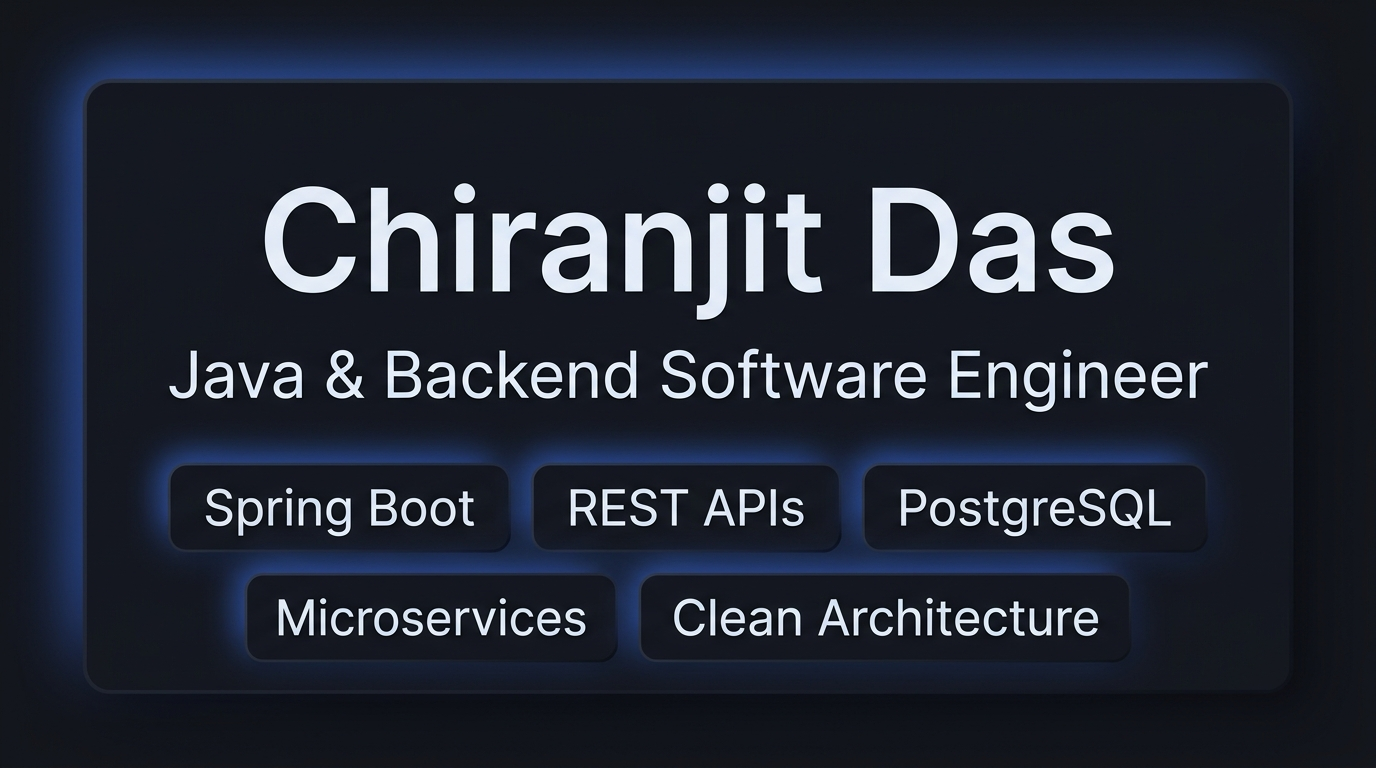
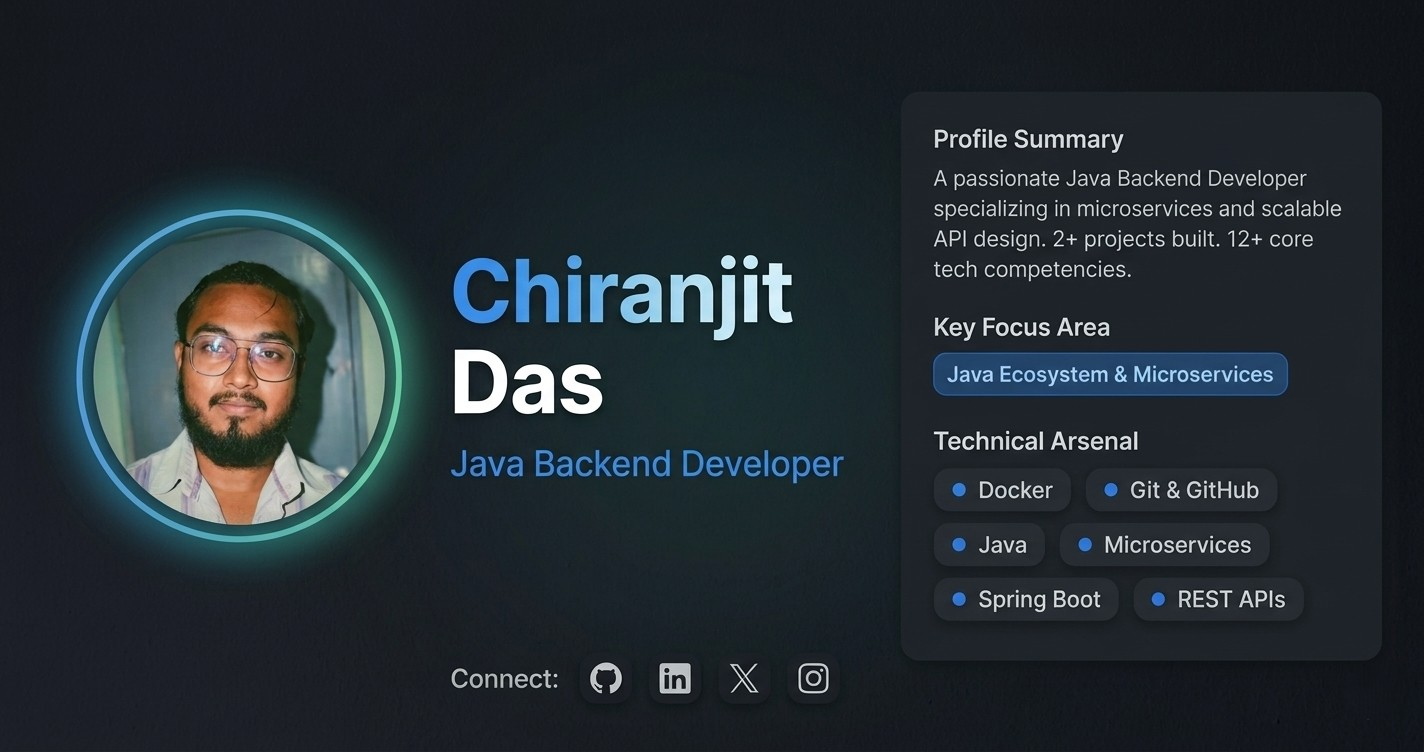
feat: initialize frontend portfolio with Next.js, neumorphic styling, and core pages

diff --git a/Frontend/src/app/layout.tsx b/Frontend/src/app/layout.tsx
@@ -1,6 +1,8 @@
 import '@/app/globals.css'
 import SiteChrome from '@/components/SiteChrome'
 import { serverApi } from '@/lib/serverApi'
+import { getImageUrl } from '@/utils/imageUtils'
+import { preload } from 'react-dom'
 import type { Metadata, Viewport } from 'next'
 import { Inter, JetBrains_Mono } from 'next/font/google'
 
@@ -31,15 +33,15 @@ export const metadata: Metadata = {
         locale: 'en_IN',
         url: 'https://www.chirru.in/',
         siteName: 'Chiranjit Das Portfolio',
-        title: 'Chiranjit Das',
-        description: 'Official portfolio and software engineering projects of Chiranjit Das.',
-        images: [{ url: '/og-image.jpg', width: 1200, height: 630, alt: 'Chiranjit Das portfolio' }]
+        title: 'Chiranjit Das | Java & Backend Developer',
+        description: 'Explore software architecture, featured projects, and backend engineering competencies by Chiranjit Das.',
+        images: [{ url: 'https://www.chirru.in/og-image.jpg', width: 1200, height: 630, type: 'image/jpeg', alt: 'Chiranjit Das portfolio' }]
     },
     twitter: {
         card: 'summary_large_image',
-        title: 'Chiranjit Das',
-        description: 'Official portfolio and software engineering projects of Chiranjit Das.',
-        images: ['/og-image.jpg']
+        title: 'Chiranjit Das | Java & Backend Developer',
+        description: 'Explore software architecture, featured projects, and backend engineering competencies by Chiranjit Das.',
+        images: ['https://www.chirru.in/og-image.jpg']
     },
     robots: {
         index: true,
@@ -64,6 +66,10 @@ const themeInitScript = `(function(){try{var t=localStorage.getItem('chirru_them
 
 export default async function RootLayout({ children }: { children: React.ReactNode }) {
     const [profile, socialLinks] = await Promise.all([serverApi.profile(), serverApi.socialLinks()]);
+    const avatarUrl = getImageUrl(profile.imageUrl);
+    if (avatarUrl) {
+        preload(avatarUrl, { as: 'image', fetchPriority: 'high' });
+    }
     return (
         <html lang="en" className={`${inter.variable} ${jetbrainsMono.variable}`} suppressHydrationWarning>
             <head>

diff --git a/Frontend/src/app/page.tsx b/Frontend/src/app/page.tsx
@@ -1,5 +1,32 @@
 import type { Metadata } from 'next'
 import Home from '@/views/Home'
 import { getPortfolioData } from '@/lib/serverApi'
-export const metadata: Metadata = {title:'Chiranjit Das',description:'Official portfolio of Chiranjit Das, Java & Backend Software Engineer specializing in Spring Boot, REST APIs, Microservices, and scalable web applications.',alternates:{canonical:'/'},openGraph:{type:'website',url:'/',title:'Chiranjit Das',description:'Official portfolio and software engineering projects of Chiranjit Das.',images:['/og-image.jpg']}}
-export default async function Page(){return <Home {...await getPortfolioData()} projectsLoading={false}/>}
+export const revalidate = 1800
+
+export const metadata: Metadata = {
+  title: 'Chiranjit Das | Java & Backend Developer',
+  description:
+    'Official portfolio of Chiranjit Das, Java & Backend Software Engineer specializing in Spring Boot, REST APIs, Microservices, and scalable web applications.',
+  alternates: { canonical: '/' },
+  openGraph: {
+    type: 'website',
+    url: 'https://www.chirru.in/',
+    siteName: 'Chiranjit Das Portfolio',
+    title: 'Chiranjit Das | Java & Backend Developer',
+    description:
+      'Explore software architecture, featured projects, and backend engineering competencies by Chiranjit Das.',
+    images: [
+      {
+        url: 'https://www.chirru.in/og-image.jpg',
+        width: 1200,
+        height: 630,
+        type: 'image/jpeg',
+        alt: 'Chiranjit Das | Java & Backend Developer',
+      },
+    ],
+  },
+}
+
+export default async function Page() {
+  return <Home {...(await getPortfolioData())} projectsLoading={false} />
+}

diff --git a/Frontend/src/components/Hero.tsx b/Frontend/src/components/Hero.tsx
@@ -46,12 +46,7 @@ export default function Hero({ profile = {}, socialLinks = [], projectCount = 0,
   return (
     <section id="home" className="hero-section section">
       <div className="container hero-container-landscape">
-        <motion.div
-          className="hero-card hero-card-landscape"
-          initial={{ opacity: 0, y: 24, scale: 0.98 }}
-          animate={{ opacity: 1, y: 0, scale: 1 }}
-          transition={{ duration: 0.5, ease: 'easeOut' }}
-        >
+        <div className="hero-card hero-card-landscape">
           {/* Left Column: Identity, Bio & Actions */}
           <div className="hero-landscape-left">
             {/* Status Indicator */}
@@ -74,6 +69,7 @@ export default function Hero({ profile = {}, socialLinks = [], projectCount = 0,
                     height={160}
                     sizes="160px"
                     priority
+                    fetchPriority="high"
                     onError={() => setImgError(true)}
                   />
                 ) : (
@@ -194,7 +190,7 @@ export default function Hero({ profile = {}, socialLinks = [], projectCount = 0,
               </div>
             </div>
           </div>
-        </motion.div>
+        </div>
       </div>
     </section>
   )

diff --git a/Frontend/src/lib/serverApi.ts b/Frontend/src/lib/serverApi.ts
@@ -18,21 +18,23 @@ async function get<T>(path: string, fallback: T): Promise<T> {
 
   try {
     const response = await fetch(url, {
-      cache: 'no-store',
+      next: { revalidate: 1800 },
       headers: { Accept: 'application/json' },
       signal: AbortSignal.timeout(8000),
     })
 
     if (!response.ok) {
-      console.error(
-        `[serverApi] ${response.status} ${response.statusText}: ${url}`
-      )
+      if (process.env.NODE_ENV !== 'production') {
+        console.warn(`[serverApi] ${response.status} ${response.statusText}: ${url}`)
+      }
       return fallback
     }
 
     return (await response.json()) as T
   } catch (error) {
-    console.error(`[serverApi] Failed to fetch ${url}`, error)
+    if (process.env.NODE_ENV !== 'production') {
+      console.warn(`[serverApi] Failed to fetch ${url}`, error)
+    }
     return fallback
   }
 }

diff --git a/Frontend/src/app/contact/page.tsx b/Frontend/src/app/contact/page.tsx
@@ -1,5 +1,6 @@
 import type { Metadata } from 'next'
 import ContactPage from '@/views/ContactPage'
 import { serverApi } from '@/lib/serverApi'
+export const revalidate = 1800
 export const metadata: Metadata = { title: 'Contact Chiranjit Das', description: 'Connect with Chiranjit Das for software engineering opportunities, Java & Spring Boot backend projects, or technical inquiries.', alternates: { canonical: '/contact' } }
 export default async function Page() { const [profile, socialLinks] = await Promise.all([serverApi.profile(), serverApi.socialLinks()]); return <ContactPage profile={profile} socialLinks={socialLinks} /> }

diff --git a/Frontend/src/app/experience/page.tsx b/Frontend/src/app/experience/page.tsx
@@ -1,5 +1,6 @@
 import type { Metadata } from 'next'
 import ExperiencePage from '@/views/ExperiencePage'
 import { serverApi } from '@/lib/serverApi'
+export const revalidate = 1800
 export const metadata: Metadata={title:'Experience | Chiranjit Das',description:'Explore the professional work experience, developer internships, and educational background of Chiranjit Das.',alternates:{canonical:'/experience'}}
 export default async function Page(){const [experience,education]=await Promise.all([serverApi.experience(),serverApi.education()]);return <ExperiencePage experience={experience} education={education}/>}

diff --git a/Frontend/src/app/projects/page.tsx b/Frontend/src/app/projects/page.tsx
@@ -1,5 +1,6 @@
 import type { Metadata } from 'next'
 import ProjectsPage from '@/views/ProjectsPage'
 import { serverApi } from '@/lib/serverApi'
+export const revalidate = 1800
 export const metadata: Metadata={title:'Projects | Chiranjit Das',description:'Explore software engineering projects, backend architectures, and full-stack web applications developed by Chiranjit Das.',alternates:{canonical:'/projects'}}
 export default async function Page(){return <ProjectsPage projects={await serverApi.projects()}/>}

diff --git a/Frontend/src/app/about/page.tsx b/Frontend/src/app/about/page.tsx
@@ -2,6 +2,8 @@ import type { Metadata } from 'next'
 import AboutPage from '@/views/AboutPage'
 import { serverApi } from '@/lib/serverApi'
 
+export const revalidate = 1800
+
 export const metadata: Metadata = {
     title: 'About Chiranjit Das | Java Developer',
     description: 'Learn about Chiranjit Das, a Java & Backend Software Engineer passionate about clean code, Spring Boot, REST APIs, and scalable distributed systems.',

diff --git a/Frontend/src/app/robots.ts b/Frontend/src/app/robots.ts
@@ -1,2 +1,12 @@
 import type { MetadataRoute } from 'next'
-export default function robots():MetadataRoute.Robots{return {rules:{userAgent:'*',allow:'/'},sitemap:'https://www.chirru.in/sitemap.xml'}}
+
+export default function robots(): MetadataRoute.Robots {
+  return {
+    rules: {
+      userAgent: '*',
+      allow: '/',
+      disallow: ['/api/'],
+    },
+    sitemap: 'https://www.chirru.in/sitemap.xml',
+  }
+}

diff --git a/Frontend/src/app/globals.css b/Frontend/src/app/globals.css
@@ -17,7 +17,7 @@
   --text-primary: #191b22;
   --text-secondary: #595f65;
   --text-variant: #424653;
-  --text-muted: #737785;
+  --text-muted: #555a68;
   --text-inverse: #f0f0fa;
 
   --primary: #4785FF;
@@ -73,7 +73,7 @@
   --text-primary: #f0f0fa;
   --text-secondary: #a1a6b4;
   --text-variant: #cbd0df;
-  --text-muted: #737785;
+  --text-muted: #9ca2b2;
   --text-inverse: #191b22;
 
   --primary: #4785FF;

diff --git a/Frontend/src/app/projects/[slug]/page.tsx b/Frontend/src/app/projects/[slug]/page.tsx
@@ -3,6 +3,8 @@ import ProjectDetailsPage from '@/views/ProjectDetailsPage'
 import { serverApi } from '@/lib/serverApi'
 import { findProjectBySlug, toProjectSlug } from '@/utils/slugUtils'
 
+export const revalidate = 1800
+
 interface PageProps {
     params: Promise<{ slug: string }>
 }

diff --git a/README.md b/README.md
@@ -6,10 +6,7 @@ A comprehensive, production-ready personal portfolio platform consisting of a pu
 
 - **Public Portfolio**: Dynamic display of projects, skills, education, and work experience.
 - **Admin Dashboard**: Secure, authenticated interface to manage portfolio content via CRUD operations.
-- **Authentication & Authorization**: JWT-based secure login utilizing Spring Security.
-- **Media Management**: Seamless integration with Cloudinary for uploading and handling images.
 - **Responsive Design**: Mobile-first UI using Tailwind CSS and Framer Motion for smooth animations.
-- **Database Migrations**: Version-controlled database schema management using Flyway.
 
 ## 🛠 Technology Stack
 
@@ -25,53 +22,18 @@ A comprehensive, production-ready personal portfolio platform consisting of a pu
 - React Hook Form + Zod
 - Tailwind CSS + Framer Motion
 
-**Backend**
-- Java 21
-- Spring Boot 3.x
-- Spring Security + JWT
-- Spring Data JPA + Hibernate
-- Flyway (Database Migrations)
-
-**Database & Infrastructure**
-- PostgreSQL
-- Cloudinary (Media Storage)
-- Docker & Docker Compose
-- GitHub Actions (CI/CD)
-- Nginx (Reverse Proxy)
 
 ## 📁 Architecture & Structure
 
 ```text
 Chirru-Site-v2/
-├── backend/    # Spring Boot REST API serving both frontend and admin
 ├── frontend/   # Public-facing portfolio website (React)
 └── admin/      # Secure admin dashboard for content management (React)
 ```
 
 ## 🚀 Getting Started
 
-### Prerequisites
-- Java 21
-- Node.js (v18+)
-- PostgreSQL (or Docker to run via compose)
-- Cloudinary Account (for image uploads)
-
-### 1. Backend Setup
-
-1. Navigate to the backend directory:
-   ```bash
-   cd backend
-   ```
-2. Configure your environment variables (create an `application-dev.properties` or `.env` equivalent):
-   - Database credentials (`spring.datasource.url`, etc.)
-   - JWT Secret (`jwt.secret`)
-   - Cloudinary credentials
-3. Run the application:
-   ```bash
-   ./mvnw spring-boot:run
-   ```
-
-### 2. Frontend (Public Portfolio) Setup
+### 1. Frontend (Public Portfolio) Setup
 
 1. Navigate to the frontend directory:
    ```bash
@@ -86,7 +48,7 @@ Chirru-Site-v2/
    npm run dev
    ```
 
-### 3. Admin Dashboard Setup
+### 2. Admin Dashboard Setup
 
 1. Navigate to the admin directory:
    ```bash
